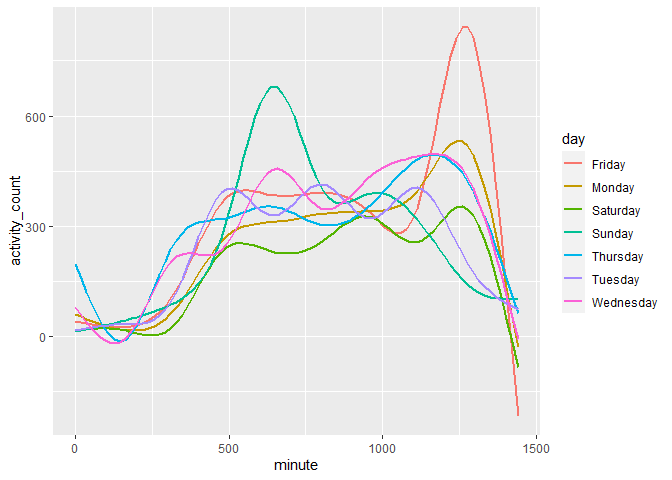
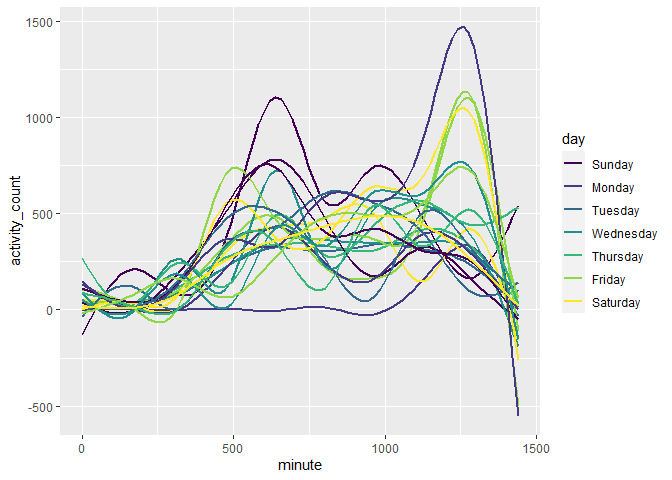
Problem 2 plot

diff --git a/p8105_hw3_heb2133.md b/p8105_hw3_heb2133.md
@@ -7,14 +7,14 @@ Hannah Briggs (heb2133)
 library(tidyverse)
 ```
 
-    ## -- Attaching packages ---------------------------- tidyverse 1.3.0 --
+    ## -- Attaching packages --------------------------- tidyverse 1.3.0 --
 
     ## v ggplot2 3.3.2     v purrr   0.3.4
     ## v tibble  3.0.3     v dplyr   1.0.2
     ## v tidyr   1.1.2     v stringr 1.4.0
     ## v readr   1.3.1     v forcats 0.5.0
 
-    ## -- Conflicts ------------------------------- tidyverse_conflicts() --
+    ## -- Conflicts ------------------------------ tidyverse_conflicts() --
     ## x dplyr::filter() masks stats::filter()
     ## x dplyr::lag()    masks stats::lag()
 
@@ -243,21 +243,112 @@ Saturday (376,254.0) and Sunday (631,105.0); compared to week 5 Saturday
 the last two weeks of observation, and was highest in the 2nd and 3rd
 weeks of observation.
 
-Plot: Activty over 24-hours by day
+Plot of 24-hour activity for all 35 days of observation:
 
 ``` r
-accel_df %>%
-  ggplot(aes(x = minute, y = activity_count, color = day)) + 
-  geom_smooth(se = FALSE)
+accel_week1 =
+  accel_df %>% 
+    mutate(
+    day = factor(day),
+    day = forcats::fct_relevel(day, c("Sunday",
+                                       "Monday", 
+                                       "Tuesday", 
+                                       "Wednesday",
+                                       "Thursday",
+                                       "Friday",
+                                       "Saturday"))
+  ) %>% 
+  filter(week == 1)
+
+accel_week2 = 
+  accel_df %>% 
+    mutate(
+    day = factor(day),
+    day = forcats::fct_relevel(day, c("Sunday",
+                                       "Monday", 
+                                       "Tuesday", 
+                                       "Wednesday",
+                                       "Thursday",
+                                       "Friday",
+                                       "Saturday"))
+  ) %>% 
+  filter(week == 2)
+
+accel_week3 = 
+  accel_df %>% 
+    mutate(
+    day = factor(day),
+    day = forcats::fct_relevel(day, c("Sunday",
+                                       "Monday", 
+                                       "Tuesday", 
+                                       "Wednesday",
+                                       "Thursday",
+                                       "Friday",
+                                       "Saturday"))
+  ) %>% 
+  filter(week == 3)
+
+accel_week4 = 
+  accel_df %>% 
+    mutate(
+    day = factor(day),
+    day = forcats::fct_relevel(day, c("Sunday",
+                                       "Monday", 
+                                       "Tuesday", 
+                                       "Wednesday",
+                                       "Thursday",
+                                       "Friday",
+                                       "Saturday"))
+  ) %>% 
+  filter(week == 4)
+
+accel_week5 = 
+  accel_df %>%
+    mutate(
+    day = factor(day),
+    day = forcats::fct_relevel(day, c("Sunday",
+                                       "Monday", 
+                                       "Tuesday", 
+                                       "Wednesday",
+                                       "Thursday",
+                                       "Friday",
+                                       "Saturday"))
+  ) %>% 
+  filter(week == 5)
+
+ggplot(data = accel_week1,
+  aes(x = minute, y = activity_count, color = day)) + 
+  geom_smooth(se = FALSE) +
+  geom_smooth(data = accel_week2, se = FALSE) +
+  geom_smooth(data = accel_week3, se = FALSE) +
+  geom_smooth(data = accel_week4, se = FALSE) + 
+  geom_smooth(data = accel_week5, se = FALSE) + 
+  viridis::scale_color_viridis(
+    name = "day",
+    discrete = TRUE
+  )
 ```
 
     ## `geom_smooth()` using method = 'gam' and formula 'y ~ s(x, bs = "cs")'
+    ## `geom_smooth()` using method = 'gam' and formula 'y ~ s(x, bs = "cs")'
+    ## `geom_smooth()` using method = 'gam' and formula 'y ~ s(x, bs = "cs")'
+    ## `geom_smooth()` using method = 'gam' and formula 'y ~ s(x, bs = "cs")'
+
+    ## Warning: Computation failed in `stat_smooth()`:
+    ## NA/NaN/Inf in foreign function call (arg 3)
+
+    ## `geom_smooth()` using method = 'gam' and formula 'y ~ s(x, bs = "cs")'
+
+    ## Warning: Computation failed in `stat_smooth()`:
+    ## NA/NaN/Inf in foreign function call (arg 3)
 
 ![](p8105_hw3_heb2133_files/figure-gfm/unnamed-chunk-9-1.png)<!-- -->
 
-Q3: minute x axis, activ count y axis, geom\_line, color = day of week,
-one panel Describe in words any patterns or conclusions you can make
-based on this graph.
+From this plot we can see that daily activity tends to peak roughly
+around 600-650 minutes, and minute 1250 of the day. This equates to
+activity peaks around roughly 10am, and 9pm. Meaning that in the
+early/late afternoon, the patient tends to be less active and relatively
+sedentary compared to the rest of the daytime.
 
 ## Problem 3
 
